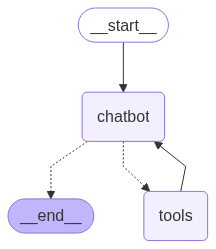
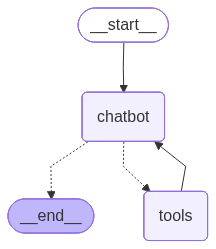
RunnableLambda

diff --git a/13课上代码/1335时光回溯.py b/13课上代码/1335时光回溯.py
@@ -1,6 +1,6 @@
-#时间回溯的主要方法:通过graph.get_state_history 获取状态快照的list,
+# 时间回溯的主要方法:通过graph.get_state_history 获取状态快照的list,
 # 遍历里面的状态快照,保存想要回溯的状态快照,再用graph.invode( 状态快照.config)去从某个检查点开始执行
-#这样可以不用重复输入之前的上下文,就是不需要前2轮的对话
+# 这样可以不用重复输入之前的上下文,就是不需要前2轮的对话
 
 import os
 from typing import Annotated
@@ -15,17 +15,17 @@ from langgraph.graph import StateGraph, START, END
 from langgraph.graph.message import add_messages
 from langgraph.prebuilt import ToolNode, tools_condition
 
-
 # 1. 初始化LLM（需替换为自己的API密钥）
 from dotenv import load_dotenv
-load_dotenv("openai.env")
+
+load_dotenv("./assets/.env")
 import os
 from langchain_deepseek import ChatDeepSeek
-from dotenv import load_dotenv
-load_dotenv("openai.env")
+
 llm = ChatDeepSeek(
     model=os.getenv("MODEL_NAME"),
-     temperature=0.8)
+    temperature=0.8)
+
 
 # 2. 定义图的状态（存储对话消息）
 class State(TypedDict):
@@ -46,15 +46,12 @@ llm_with_tools = llm.bind_tools(tools)  # 将工具绑定到LLM
 def chatbot(state: State):
     return {"messages": [llm_with_tools.invoke(state["messages"])]}
 
+
 graph_builder.add_node("chatbot", chatbot)  # 添加聊天机器人节点
-
-
-
 
 # 5. 定义工具节点（执行工具调用）
 tool_node = ToolNode(tools=[tool])
 graph_builder.add_node("tools", tool_node)  # 添加工具节点
-
 
 # 6. 定义边（控制节点间的流转）
 # 从chatbot节点根据工具调用情况跳转（有工具调用则去tools节点，否则结束）
@@ -67,40 +64,39 @@ graph_builder.add_edge("tools", "chatbot")
 # 从起始节点进入chatbot节点
 graph_builder.add_edge(START, "chatbot")
 
-
 # 7. 编译图（启用检查点以支持时间回溯）
 memory = InMemorySaver()  # 用内存存储检查点（生产环境可替换为持久化存储）
 graph = graph_builder.compile(checkpointer=memory)
-
 
 # 8. 与图交互（添加对话步骤，生成检查点）
 config = {"configurable": {"thread_id": "1"}}  # 用thread_id区分不同对话线程
 print("铭刻:义父追魂戟,把离手越进义父离你越远>---红字增幅+26----------)三(--> ")
 user_input = "如何刷脂?20字以内回答"
-result = graph.invoke({"messages": [HumanMessage(content=user_input)]},config)
+result = graph.invoke({"messages": [HumanMessage(content=user_input)]}, config)
 user_input = "如何2小时之内刷脂的同时再增肌?20字以内回答"
-result = graph.invoke({"messages": [HumanMessage(content=user_input)]},config)
+result = graph.invoke({"messages": [HumanMessage(content=user_input)]}, config)
 for msg in result["messages"]:
     msg.pretty_print()
 
 print("\n===== 时间回溯 =====")
-replay_snapshot = None #保存状态快照的
+replay_snapshot = None  # 保存状态快照的
 for snapshot in graph.get_state_history(config):
     print(f"消息个数{len(snapshot.values["messages"])},下一个节点是:{snapshot.next}")
     if len(snapshot.values["messages"]) == 3:
-        replay_snapshot = snapshot #保存,消息总是是2的状态快照
+        replay_snapshot = snapshot  # 保存,消息总是是2的状态快照
 
 print("\n===== 从回溯点恢复执行 =====")
-print("replay_snapshot.config=",replay_snapshot.config)
+print("replay_snapshot.config=", replay_snapshot.config)
 # result = graph.invoke(None,replay_snapshot.config)#None是不添加新的,用之前检查点保存 的聊天记录
 user_input = "如何快速增肥变成大囗袋?20字之内回答"
-result = graph.invoke({"messages": [HumanMessage(content=user_input)]},replay_snapshot.config)
+result = graph.invoke(
+    {"messages":[HumanMessage(content=user_input)]},
+    replay_snapshot.config)
 for msg in result["messages"]:
     msg.pretty_print()
 
-
 try:
-    #display(Image(graph.get_graph().draw_mermaid_png()))
+    # display(Image(graph.get_graph().draw_mermaid_png()))
     # 生成图片二进制数据
     png_data = graph.get_graph().draw_mermaid_png()
     with open("时光回溯.png", "wb") as f:
@@ -108,4 +104,4 @@ try:
         print("工作流图已保存为：时光回溯.png")  # 提示保存路径
 except Exception as e:
     # This requires some extra dependencies and is optional
-    print("e=",e)
+    print("e=", e)
